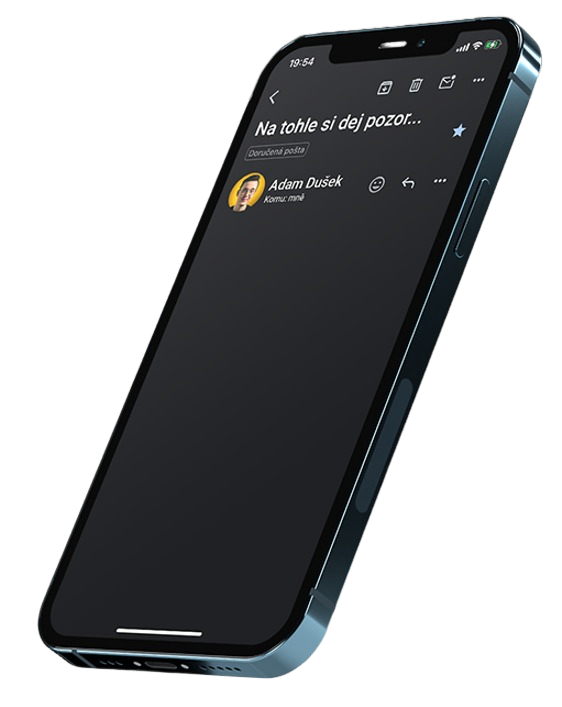
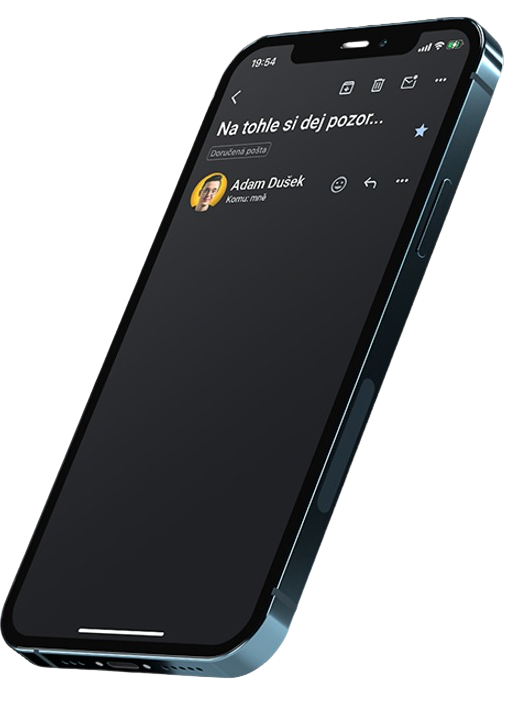
Responsivness 1800px width

diff --git a/newsletter/podekovani/index.html b/newsletter/podekovani/index.html
@@ -59,7 +59,7 @@
         <ul>
           <li><span>Na počítači:&nbsp;</span>Odejdi z e-mailu a potom ho přetáhni <br>
           do karty "Doručená pošta" v levé horní části obrazovky.</li><br>
-          <li><span>Na mobilu:&nbsp;</span>Otevři e-mail, vpravo nahoře klikni na tři tečky, klikni na "Přesunout" a vyber "Primární"</li><br>
+          <li><span>Na mobilu:&nbsp;</span>Otevři e-mail, vpravo nahoře klikni na tři tečky, klikni&nbsp;na&nbsp;"Přesunout" a vyber "Primární"</li><br>
           <li><span>Našel jsi e-mail ve spamu:&nbsp;</span>Otevři ho a klikni na "Není spam".</li>
         </ul>
       </div>
@@ -70,19 +70,20 @@
         <ul>
           <li><span>Na počítači:&nbsp;</span>Odejdi z e-mailu a potom ho přetáhni <br>
           do karty "Doručené" v levé horní části obrazovky.</li><br>
-          <li><span>Na mobilu:&nbsp;</span>Otevři e-mail, vpravo nahoře klikni na ikonu složky, uvnitř které je šipka doprava a zvol "Doručené".</li><br>
-          <li><span>Našel jsi e-mail ve spamu:&nbsp;</span>Otevři ho, nahoře klikni na "Přesunout" a následně zvol "Doručené</li>
+          <li><span>Na mobilu:&nbsp;</span>Otevři e-mail, vpravo nahoře klikni na ikonu složky,&nbsp;uvnitř&nbsp;které je šipka doprava a zvol "Doručené".</li><br>
+          <li><span>Našel jsi e-mail ve spamu:&nbsp;</span>Otevři ho, nahoře klikni na
+          "Přesunout" a&nbsp;následně zvol "Doručené</li>
         </ul>
       </div>
 
       <div class="footer">
         <h1>Perfektní!</h1>
         <h2>
-          Jakmile e-mail přesuneš do karty "Doručená pošta" -Máš plný přístup přístup
-          k těm nejlepším lekcím z chytrých knížek kompletně zdarma, přesně jak jsem slíbil.</h2> <br>
+          Jakmile e-mail přesuneš do karty "Doručená pošta" - Máš plný přístup přístup
+          k&nbsp;těm&nbsp;nejlepším&nbsp;lekcím z chytrých knížek kompletně zdarma, přesně jak jsem slíbil.</h2> <br>
           <p>Ať se daří a měj se hezky,</p>
           <p>Adam</p>
-          <p class="lastP"><span>PS: </span>Nové lekce odesílám vždy 2x týdně, těsím se na tvou zpětnou vazbu :)</p>
+          <p class="lastP"><span>PS: </span>Nové lekce odesílám vždy 2x týdně, těším se na tvou zpětnou vazbu :)</p>
       </div>
 
 

diff --git a/newsletter/podekovani/style.css b/newsletter/podekovani/style.css
@@ -78,7 +78,7 @@ body::before {
 
 .phone .icons {
     display: flex;  
-    justify-content: center;
+    justify-content: left;
     gap: 20px;
 }
 
@@ -110,6 +110,7 @@ body::before {
     font-size: 1.25rem;
     text-align: center;
     margin-top: 10px;
+    left: -20%;
 }
 
 /* TITLE */
@@ -200,6 +201,7 @@ body::before {
 .subtitle h1 img {
     height: 3rem;
     margin-left: 10px;
+    vertical-align: top;
 }
 
 .subtitle p{
@@ -214,7 +216,8 @@ body::before {
 .subtitle p img {
     position: relative;
     bottom: 0px;
-    height: 1.5rem;
+    height: 1.25rem;
+    vertical-align: top;
 }
 
 /* GMAIL */

diff --git a/newsletter/podekovani/queries.css b/newsletter/podekovani/queries.css
@@ -5,7 +5,7 @@
     .title h1 span::before {
         width: 50px;
         height: 50px;
-        right: 40px;
+        right: 41px;
         top: -10px;
         transform: rotate(20deg);
     }
@@ -50,6 +50,8 @@
     }
     .phone p {
         font-size: 1.25rem;
+        position: relative;
+        left: -25%;
     }
     .circle {
         height: 70px;
